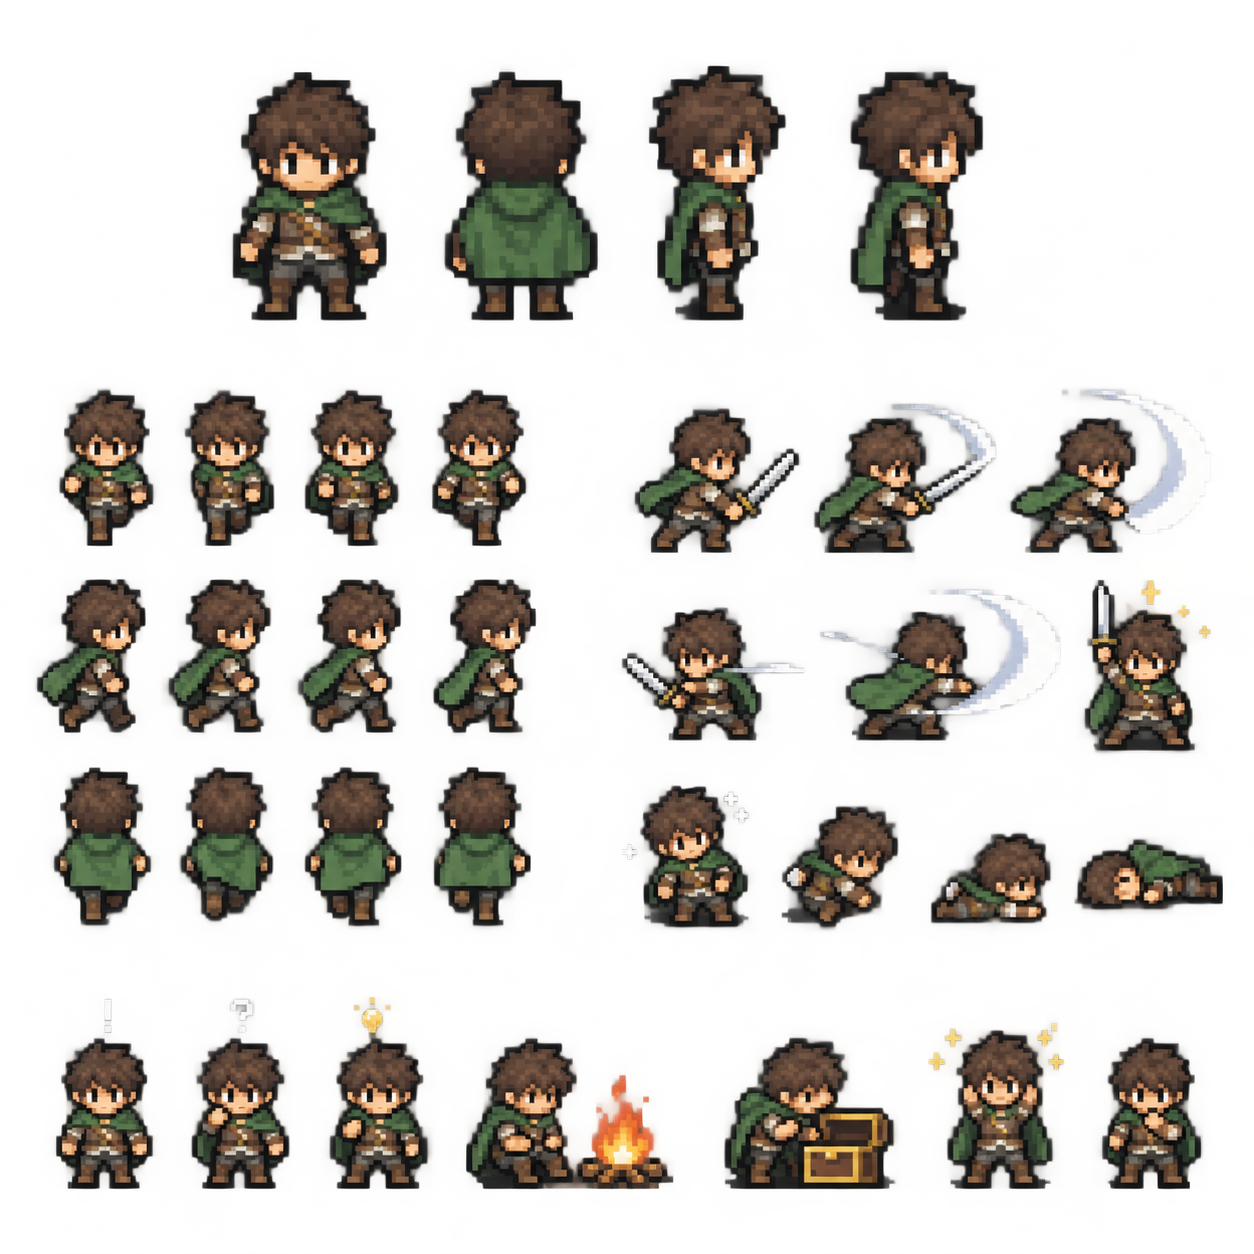
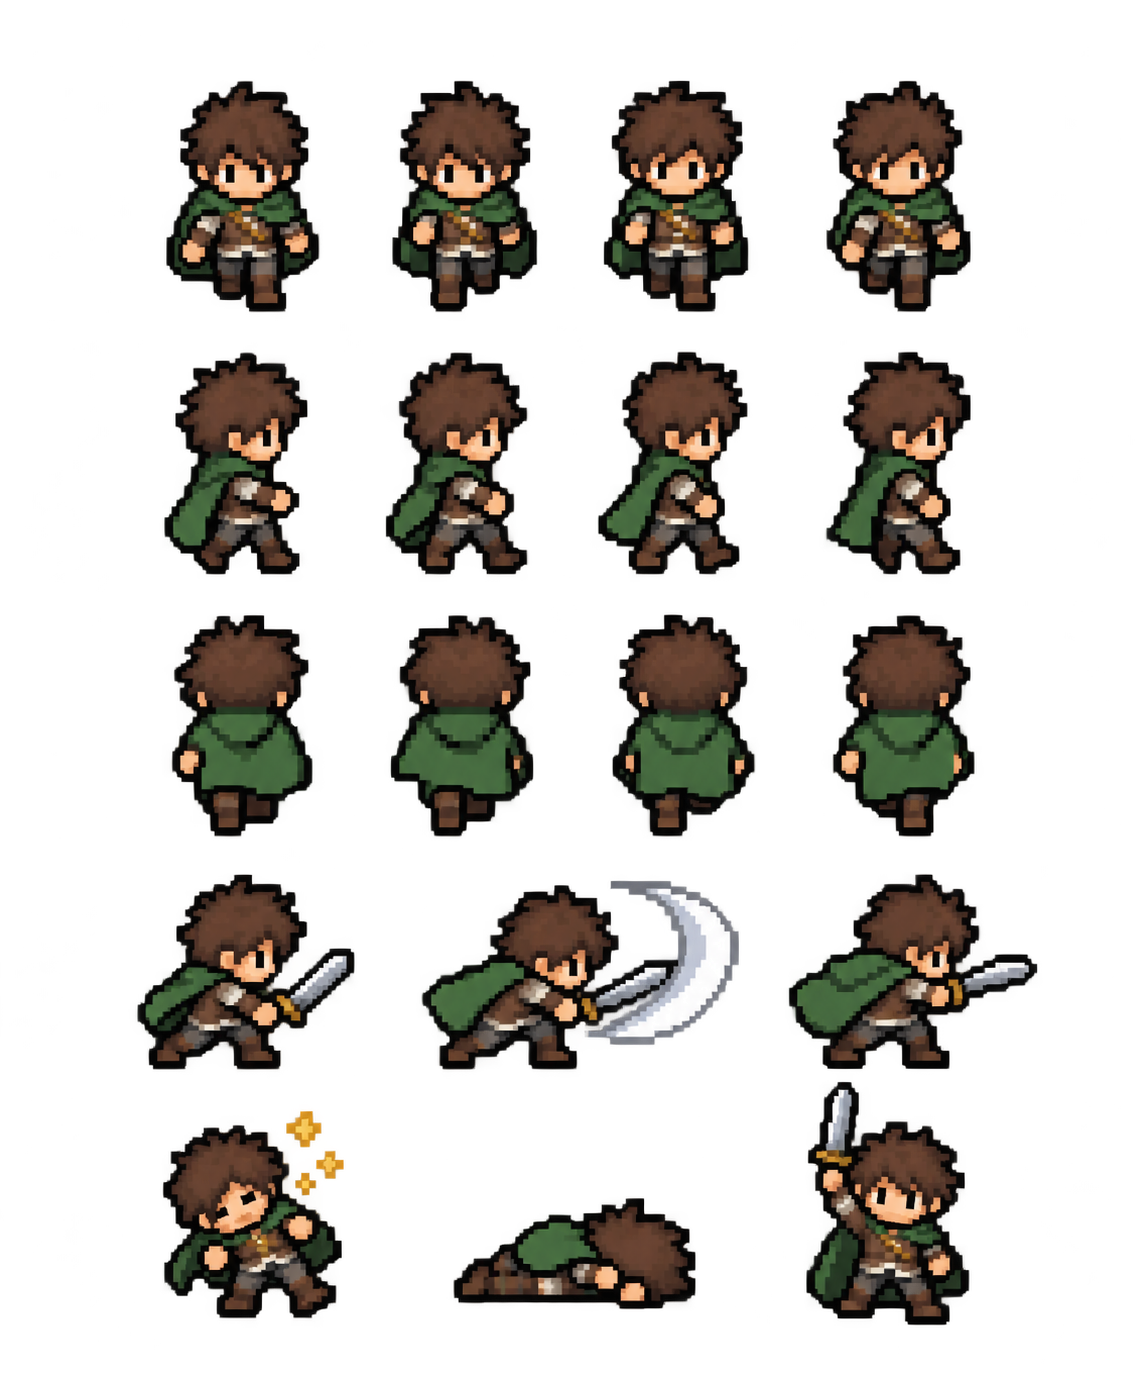
Use the new ChatGPT hero sprite sheet
Swap in the new sheet (made in ChatGPT, laid out as rows of front, right
and back walks, a 3-frame swing, then hurt / knocked out / victory) and
point tools/build-hero.py at its layout: smaller shrink factor for the
bigger frames, loose sparkles dropped, the knocked-out pose's head on
the right. Adds the victory pose (sword raised), shown when a hero
levels up.

Claude-Session: https://claude.ai/code/session_01FFhEA1UyqBRgv5VPwuY3ib

diff --git a/js/sprites.js b/js/sprites.js
@@ -87,7 +87,7 @@ const charCache = new Map();
 
 // Heroes (see hero.js). Returns { img, ox, oy, w, h, hurt() }: draw img at
 // w x h at (footX - ox, footY - oy).
-// pose: 'walk' (frames 0..3), 'idle', 'atk' (0..2), 'hurt' or 'down'.
+// pose: 'walk' (frames 0..3), 'idle', 'atk' (0..2), 'hurt', 'down' or 'win'.
 export function charSprite(look, facing, frame = 0, pose = 'walk') {
   const key = `${look.skin}${look.hairColor}${look.outfit}${look.outfitColor}|${facing}|${pose}|${frame}`;
   let s = charCache.get(key);
@@ -102,9 +102,9 @@ export function charSprite(look, facing, frame = 0, pose = 'walk') {
     let kind = facing === 1 ? 'back' : facing === 0 ? 'front' : 'side';
     let index = frame;
     if (pose === 'idle') index = 0;
-    if (pose === 'atk' || pose === 'hurt' || pose === 'down') kind = pose;
+    if (pose === 'atk' || pose === 'hurt' || pose === 'down' || pose === 'win') kind = pose;
     // swings and falls face left or right; "up" swings go left, "down" swings go right
-    const flip = kind === 'atk' || kind === 'hurt' || kind === 'down' ? left || facing === 1 : left;
+    const flip = kind === 'atk' || kind === 'hurt' || kind === 'down' || kind === 'win' ? left || facing === 1 : left;
     const f = heroFrame(colors, kind, index, flip);
     let red = null;
     s = {

diff --git a/js/hero-frames.js b/js/hero-frames.js
@@ -1,3 +1,3 @@
 // Generated from the hero sprite sheet: [x, y, w, h, footX] per frame.
 // Alpha encodes recolour roles: 255 keep, 254 cloak, 253 hair, 252 skin, 251 tunic.
-export const HERO_FRAMES = {"front": [[0, 1, 19, 32, 8], [20, 1, 19, 32, 8], [40, 1, 19, 32, 10], [60, 1, 20, 32, 11]], "side": [[81, 1, 22, 32, 12], [104, 2, 21, 31, 11], [126, 2, 21, 31, 10], [148, 2, 21, 31, 10]], "back": [[170, 1, 20, 32, 9], [191, 2, 19, 31, 8], [211, 1, 20, 32, 10], [232, 0, 20, 33, 10]], "atk": [[253, 3, 34, 30, 11], [288, 3, 37, 30, 11], [326, 0, 41, 33, 12]], "hurt": [[368, 4, 22, 29, 11]], "down": [[391, 18, 30, 15, 14]]};
+export const HERO_FRAMES = {"front": [[0, 2, 22, 33, 12], [23, 2, 21, 33, 9], [45, 2, 21, 33, 11], [67, 2, 21, 33, 11]], "side": [[89, 3, 20, 32, 11], [110, 3, 20, 32, 11], [131, 3, 21, 32, 12], [153, 3, 21, 32, 12]], "back": [[175, 3, 20, 32, 9], [196, 4, 20, 31, 9], [217, 3, 20, 32, 8], [238, 4, 20, 31, 11]], "atk": [[259, 7, 31, 28, 10], [291, 8, 45, 27, 12], [337, 7, 35, 28, 12]], "hurt": [[373, 7, 26, 28, 15]], "down": [[400, 19, 34, 16, 18]], "win": [[435, 0, 23, 35, 12]]};

diff --git a/js/render.js b/js/render.js
@@ -286,7 +286,9 @@ export class Renderer {
     const since = now - (this.attackAt.get(p.id) || -1e9);
     const hit = this.fx.some((f) => f.t === 'flash' && f.id === p.id);
     let bob = 0;
+    const cheer = this.fx.some((f) => f.t === 'lvl' && f.id === p.id);
     if (hit && since >= ATTACK_POSE * 1000) s = charSprite(p.look, p.dir, 0, 'hurt');
+    else if (cheer && !p.mv && since >= ATTACK_POSE * 1000) s = charSprite(p.look, p.dir, 0, 'win'); // level up!
     else if (since < ATTACK_POSE * 1000) s = charSprite(p.look, p.dir, Math.min(2, Math.floor((since / (ATTACK_POSE * 1000)) * 3)), 'atk');
     else if (p.mv || p.dash) s = charSprite(p.look, p.dir, Math.floor(now / 110) % 4);
     else {

diff --git a/js/hero.js b/js/hero.js
@@ -54,7 +54,7 @@ const TUNIC = {
 };
 
 // One frame, recoloured for `look` = { skin, hair, outfitColor (hex), outfit (name) }.
-// kind: 'front' | 'side' | 'back' (4 walking frames each), 'atk' (3), 'hurt', 'down'.
+// kind: 'front' | 'side' | 'back' (4 walking frames each), 'atk' (3), 'hurt', 'down', 'win'.
 // Returns { img, ox, oy } with the feet at (ox, oy).
 export function heroFrame(look, kind, index, flip) {
   const list = HERO_FRAMES[kind];

diff --git a/tools/build-hero.py b/tools/build-hero.py
@@ -4,15 +4,18 @@ import sys, json, colorsys
 from PIL import Image
 # Usage: python3 tools/build-hero.py   (run from the repo root)
 im = Image.open('tools/hero-sheet.png').convert('RGBA')
+# Frame boxes on the sheet (x0, y0, x1, y1), in the layout from the prompt:
+# rows of 4-frame walks (front, right, back), a 3-frame swing, then hurt / down / victory.
 F = {
- 'front': [(60,390,152,545),(185,391,273,545),(305,391,397,545),(432,390,525,545)],
- 'side':  [(37,579,144,732),(169,580,270,731),(298,580,400,732),(434,580,535,732)],
- 'back':  [(54,768,150,924),(180,768,272,920),(305,768,400,925),(434,767,530,925)],
- 'atk':   [(635,409,798,552),(815,405,995,552),(1011,390,1209,552)],
- 'hurt':  [(641,786,747,926)],
- 'down':  [(1076,840,1222,909)],
+ 'front': [(166,81,318,311),(393,81,536,311),(604,81,747,311),(827,81,969,311)],
+ 'side':  [(165,353,306,573),(386,353,526,573),(598,352,746,573),(827,352,969,573)],
+ 'back':  [(172,615,311,835),(391,616,532,835),(613,615,753,835),(833,616,973,835)],
+ 'atk':   [(138,875,353,1068),(422,881,738,1068),(789,875,1036,1068)],
+ 'hurt':  [(163,1125,341,1317)],
+ 'down':  [(454,1198,694,1308)],
+ 'win':   [(806,1082,968,1324)],
 }
-K = 0.2
+K = 0.14
 ROLE = {'keep': 255, 'cloak': 254, 'hair': 253, 'skin': 252, 'tunic': 251}
 
 def classify(r, g, b, x, y, w, h, name):
@@ -23,15 +26,31 @@ def classify(r, g, b, x, y, w, h, name):
     if 75 < hue < 170 and g > r: return 'cloak'
     if 8 < hue < 42 and l >= 0.5 and s > 0.3: return 'skin'   # face and hands, lit and shaded
     if 8 < hue < 45 and l < 0.5:
-        if name == 'down': return 'hair' if x < w * 0.45 else 'tunic'
+        if name == 'down': return 'hair' if x > w * 0.55 else 'tunic'
         head = 0.45 if name != 'atk' else 0.42
         return 'hair' if y < h * head else 'tunic'
     return 'keep'
 
+def keep_big(c, min_px=3000):
+    """Clear any loose bits (sparkles, specks) that aren't part of a large shape."""
+    px = c.load(); W, H = c.size; seen = set()
+    for y in range(H):
+        for x in range(W):
+            if px[x, y][3] <= 128 or (x, y) in seen: continue
+            st = [(x, y)]; seen.add((x, y)); comp = []
+            while st:
+                cx, cy = st.pop(); comp.append((cx, cy))
+                for nx, ny in ((cx + 1, cy), (cx - 1, cy), (cx, cy + 1), (cx, cy - 1)):
+                    if 0 <= nx < W and 0 <= ny < H and (nx, ny) not in seen and px[nx, ny][3] > 128:
+                        seen.add((nx, ny)); st.append((nx, ny))
+            if len(comp) < min_px:
+                for cx, cy in comp: px[cx, cy] = (0, 0, 0, 0)
+    return c
+
 frames = []
 for name, boxes in F.items():
     for (x0, y0, x1, y1) in boxes:
-        c = im.crop((x0 - 2, y0 - 2, x1 + 3, y1 + 3))
+        c = keep_big(im.crop((x0 - 2, y0 - 2, x1 + 3, y1 + 3)))
         sm = c.resize((max(1, round(c.width * K)), max(1, round(c.height * K))), Image.BOX)
         px = sm.load()
         for y in range(sm.height):

diff --git a/docs/rebuild-prompt.md b/docs/rebuild-prompt.md
@@ -21,7 +21,7 @@ Build a browser game called **Victor's World**: a pixel-art, co-op monster-swarm
 
 ## Characters
 - Character creator with a live, rotatable, animated preview (walk, idle, sword swing): name (12 characters max), 6 skin tones, 8 anime-style hero haircuts with their own dark outline and highlight streaks (Hero, Swoop, Flame, Layered, Wild, Fluffy, Long, Slick), 8 hair colours, an Extra (None, Goggles, Headband, Cap, Beanie), 6 young-adventurer outfits (Adventurer with vest and scarf, Squire with tin armour and pot helmet, Apprentice mage with floppy star hat and robe, Ranger with hood and quiver, Dragonhide with a horned scaly hood, Royal with crown and fur collar) and 8 storybook outfit colours. Include a Random button.
-- Heroes come from a sprite sheet (tools/hero-sheet.png): tools/build-hero.py cuts out 4-frame walks facing front, side and back, a 3-frame sword swing, a hurt pose and a knocked-out pose, shrinks them to game size and marks cloak, hair, skin and tunic pixels in the alpha channel so js/hero.js can recolour them per player (cloak = outfit colour, tunic tinted by outfit type).
+- Heroes come from a sprite sheet (tools/hero-sheet.png): tools/build-hero.py cuts out 4-frame walks facing front, side and back, a 3-frame sword swing, a hurt pose, a knocked-out pose and a victory pose, shrinks them to game size and marks cloak, hair, skin and tunic pixels in the alpha channel so js/hero.js can recolour them per player (cloak = outfit colour, tunic tinted by outfit type).
 - The profile (name, look and a random player ID) is saved in localStorage.
 
 ## Multiplayer (peer-to-peer, no game server)
